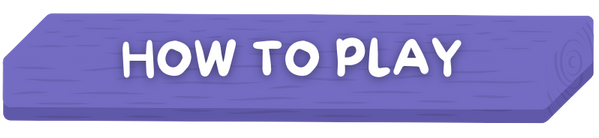
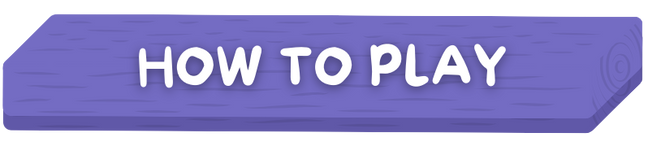
update main menu

diff --git a/src/com/nimonscooked/view/MainMenuPanel.java b/src/com/nimonscooked/view/MainMenuPanel.java
@@ -13,6 +13,7 @@ public class MainMenuPanel extends JPanel {
     
     // Variabel untuk menyimpan gambar latar belakang
     private BufferedImage backgroundImage; 
+    private BufferedImage bg;
 
     
     // Path gambar (Asumsi: resources/images/background.png)
@@ -20,6 +21,7 @@ public class MainMenuPanel extends JPanel {
 
     public MainMenuPanel(Runnable goToStageSelect) {
         backgroundImage = AssetManager.getInstance().getImage("main_menu");
+        bg = AssetManager.getInstance().getImage("bg");
         
 
 
@@ -37,21 +39,21 @@ public class MainMenuPanel extends JPanel {
         // Buat komponen kosong (spacer) dengan tinggi 50 piksel
         JLabel spacer = new JLabel();
         // Anda bisa menyesuaikan tinggi (misalnya 50, 80, 100)
-        spacer.setPreferredSize(new Dimension(1, 120)); 
+        spacer.setPreferredSize(new Dimension(1, 250)); 
         add(spacer, gbc);
         gbc.gridy++;
         // Gantilah ini: startButton = createButton("Start Game"); 
-        startButton = createButton("start", () -> goToStageSelect.run(), 380, 100); 
+        startButton = createButton("start","startHover", "startPressed", () -> goToStageSelect.run(), 380, 100); 
         add(startButton, gbc);
 
         gbc.gridy++;
         // Gantilah ini: helpButton = createButton("How to Play");
-        helpButton = createButton("help", () -> showHelpDialog(), 380, 100); 
+        helpButton = createButton("help", "helpHover", "helpPressed",() -> showHelpDialog(), 380, 100); 
         add(helpButton, gbc);
 
         gbc.gridy++;
         // Gantilah ini: exitButton = createButton("Exit");
-        exitButton = createButton("exit", () -> System.exit(0), 380, 100);
+        exitButton = createButton("exit", "exitHover", "exitPressed",() -> System.exit(0), 380, 100);
         add(exitButton, gbc);
     }
 
@@ -59,14 +61,18 @@ public class MainMenuPanel extends JPanel {
     protected void paintComponent(Graphics g) {
         super.paintComponent(g);
         // Gambar latar belakang
+        if(bg != null){
+            g.drawImage(bg, 0, 0, getWidth(), getHeight(), this);
+        }
         if (backgroundImage != null) {
             Graphics2D g2d = (Graphics2D) g.create();
-            int panelWidth = 800;
-            int panelHeight = 800;
+            int panelWidth = 900;
+            int panelHeight = 900;
             int x = (getWidth() - panelWidth) / 2;
             int y = (getHeight() - panelHeight) / 2;
             // Skala gambar agar sesuai dengan ukuran panel
             g.drawImage(backgroundImage, x, y+25, panelWidth, panelHeight, this);
+            
         }
     }
     private void showHelpDialog() {
@@ -94,27 +100,61 @@ public class MainMenuPanel extends JPanel {
             "Game Guide", JOptionPane.INFORMATION_MESSAGE);
     }
 
-    private JButton createButton(String assetName, Runnable action, int targetWidth, int targetHeight) {
-        // 1. Dapatkan Gambar dari AssetManager
-    BufferedImage iconImg = AssetManager.getInstance().getImage(assetName);
-        // 2. Buat Ikon dari Gambar
-    Image scaledImage = iconImg.getScaledInstance(targetWidth, targetHeight, Image.SCALE_SMOOTH);
-    ImageIcon icon = new ImageIcon(scaledImage);
+    // Di dalam class MainMenuPanel
 
-    // 3. Setup Tombol
-    JButton btn = new JButton(icon); 
+private JButton createButton(String defaultAsset, 
+                                 String hoverAsset, 
+                                 String pressedAsset, 
+                                 Runnable action,
+                                 int targetWidth, 
+                                 int targetHeight) {
     
-    // ** PENTING UNTUK TOMBOL GAMBAR **
-    btn.setBorderPainted(false); // Hapus bingkai di sekitar tombol
-    btn.setContentAreaFilled(false); // Hapus area latar belakang tombol
-    btn.setFocusPainted(false); // Hapus fokus (garis kotak saat diklik)
+    BufferedImage defaultImg = AssetManager.getInstance().getImage(defaultAsset);
+    BufferedImage hoverImg = AssetManager.getInstance().getImage(hoverAsset);
+    BufferedImage pressedImg = AssetManager.getInstance().getImage(pressedAsset);
     
-    // Opsional: atur ukuran tombol berdasarkan ukuran gambar
-    btn.setPreferredSize(new Dimension(icon.getIconWidth(), icon.getIconHeight()));
+    if (defaultImg == null) {
+        // ... (Kode fallback tetap ada)
+        return new JButton(defaultAsset); 
+    }
     
+    // --- LANGKAH PENTING: SKALA SEMUA GAMBAR SECARA TERPISAH ---
+
+    // 1. Skala Gambar Default dan buat Icon
+    Image scaledDefault = defaultImg.getScaledInstance(targetWidth, targetHeight, Image.SCALE_SMOOTH);
+    ImageIcon defaultIcon = new ImageIcon(scaledDefault);
+    
+    JButton btn = new JButton(defaultIcon); 
+    
+    // 2. Skala Gambar Hover dan atur RolloverIcon
+    if (hoverImg != null) {
+        Image scaledHover = hoverImg.getScaledInstance(targetWidth, targetHeight, Image.SCALE_SMOOTH);
+        ImageIcon hoverIcon = new ImageIcon(scaledHover);
+        btn.setRolloverIcon(hoverIcon); 
+    }
+    
+    // 3. Skala Gambar Pressed dan atur PressedIcon
+    if (pressedImg != null) {
+        Image scaledPressed = pressedImg.getScaledInstance(targetWidth, targetHeight, Image.SCALE_SMOOTH);
+        ImageIcon pressedIcon = new ImageIcon(scaledPressed);
+        btn.setPressedIcon(pressedIcon); 
+    }
+    
+    // --- PENGATURAN UKURAN KETAT ---
+    
+    btn.setBorderPainted(false); 
+    btn.setContentAreaFilled(false); 
+    btn.setFocusPainted(false); 
+    
+    
+    Dimension fixedSize = new Dimension(targetWidth, targetHeight);
+    btn.setPreferredSize(fixedSize); 
+    btn.setMinimumSize(fixedSize); 
+    btn.setMaximumSize(fixedSize); 
+
     btn.setCursor(new Cursor(Cursor.HAND_CURSOR));
     btn.addActionListener(e -> action.run());
     
     return btn;
-    }
+}
 }

diff --git a/src/com/nimonscooked/view/AssetManager.java b/src/com/nimonscooked/view/AssetManager.java
@@ -68,6 +68,7 @@ public class AssetManager {
         load("icon_MEAT", "resources/images/icon_meat.png");
 
         load("main_menu", "images/main_menu/bgMenu.png");
+        load("bg", "images/main_menu/bg.png");
         // ... dst
         
         // Ikon Dish Hasil Jadi (Untuk di kartu order)
@@ -77,6 +78,14 @@ public class AssetManager {
         load("start", "images/main_menu/start_game(1).png");
         load("help", "images/main_menu/how_to_play(1).png");
         load("exit", "images/main_menu/exit(1).png");
+
+        load("startHover", "images/main_menu/start_game(2).png");
+        load("helpHover", "images/main_menu/how_to_play(2).png");
+        load("exitHover", "images/main_menu/exit(2).png");
+
+        load("startPressed", "images/main_menu/start_game(3).png");
+        load("helpPressed", "images/main_menu/how_to_play(3).png");
+        load("exitPressed", "images/main_menu/exit(3).png");
 
     }
 
